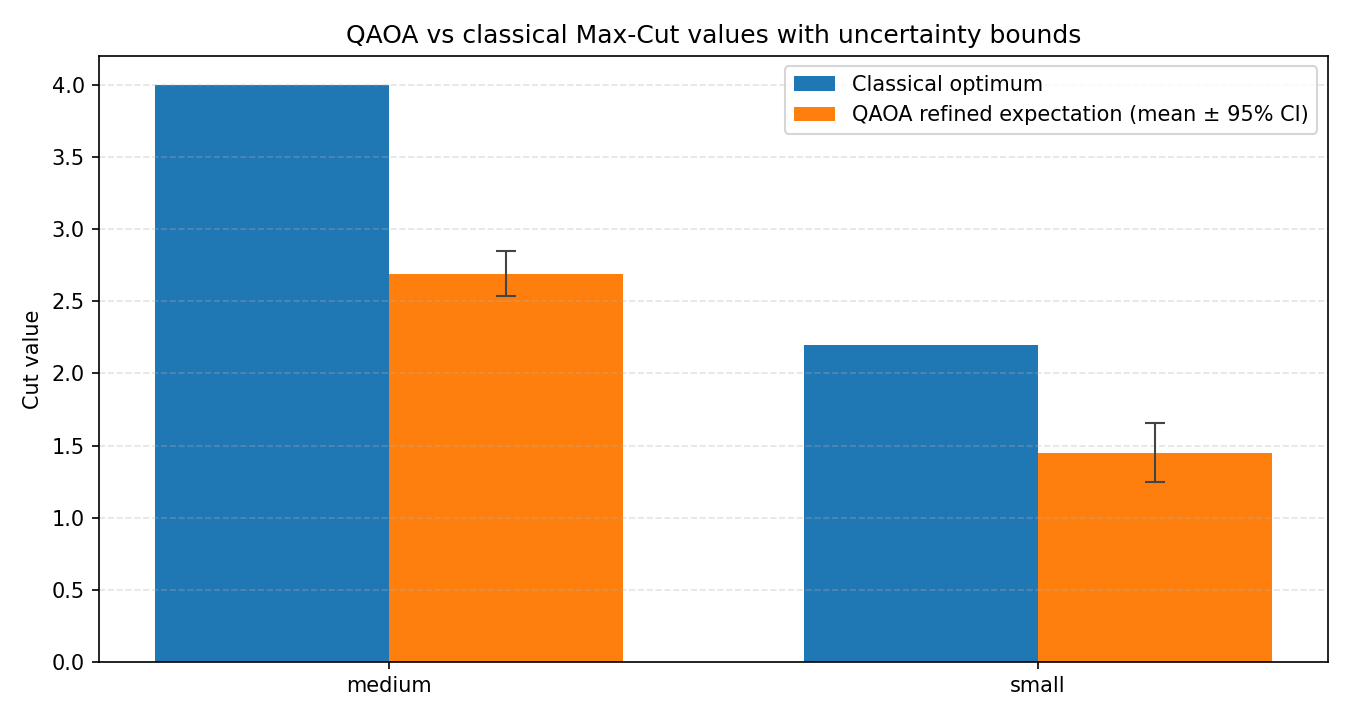
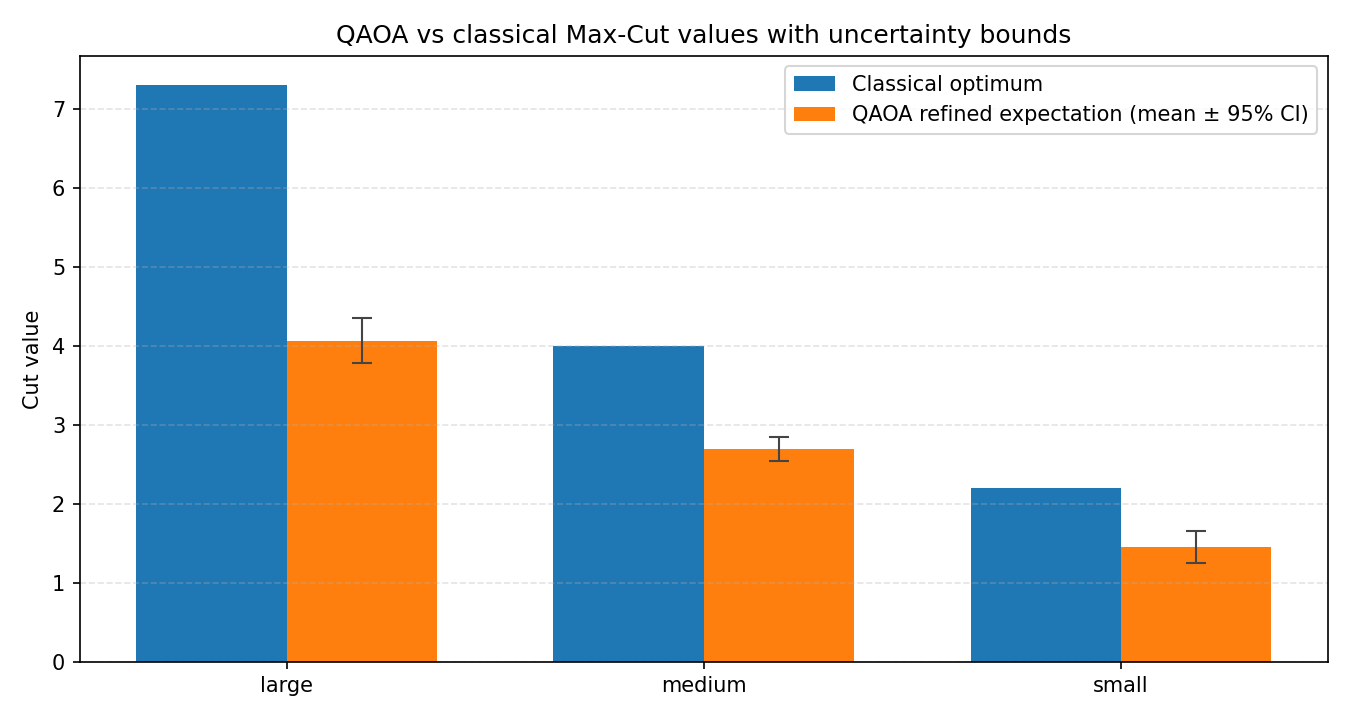
Add large-instance QAOA baseline evidence
- Generate quantum_baseline_large_d1.json with multi-trial uncertainty stats

- Refresh quantum_classical_summary.md to include large instance metrics

- Update uncertainty comparison plot with large-instance data

- Record large-instance progress in QAOA README

diff --git a/problems/05_qaoa_maxcut/estimates/quantum_classical_summary.md b/problems/05_qaoa_maxcut/estimates/quantum_classical_summary.md
@@ -4,6 +4,6 @@ This summary is auto-generated from `estimates/classical_baseline.json` and `est
 
 | Instance | Classical Optimum | Quantum Refined Mean +/- 95% CI | Mean Gap | Depth | Trials | Source |
 |---|---:|---:|---:|---:|---:|---|
-| large | 7.3000 | n/a | n/a | n/a | n/a | n/a |
+| large | 7.3000 | 4.0637 +/- 0.2834 | 3.2363 | 1 | 6 | `quantum_baseline_large_d1.json` |
 | medium | 4.0000 | 2.6910 +/- 0.1545 | 1.3090 | 1 | 6 | `quantum_baseline_medium_d1.json` |
 | small | 2.2000 | 1.4500 +/- 0.2043 | 0.7500 | 1 | 4 | `quantum_baseline_small_d1.json` |

diff --git a/problems/05_qaoa_maxcut/README.md b/problems/05_qaoa_maxcut/README.md
@@ -53,6 +53,7 @@ Current progress toward Stage C:
 
 - Depth-1 QAOA host now emits uncertainty-bounded trial statistics and JSON artifacts for reproducible small-instance comparisons.
 - Medium-instance uncertainty report is now available in `estimates/quantum_baseline_medium_d1.json`.
+- Large-instance uncertainty report is now available in `estimates/quantum_baseline_large_d1.json`.
 - Hardware-targeted estimator routing remains open.
 
 ## DiVincenzo Readiness (Stage C/D Overlay)
